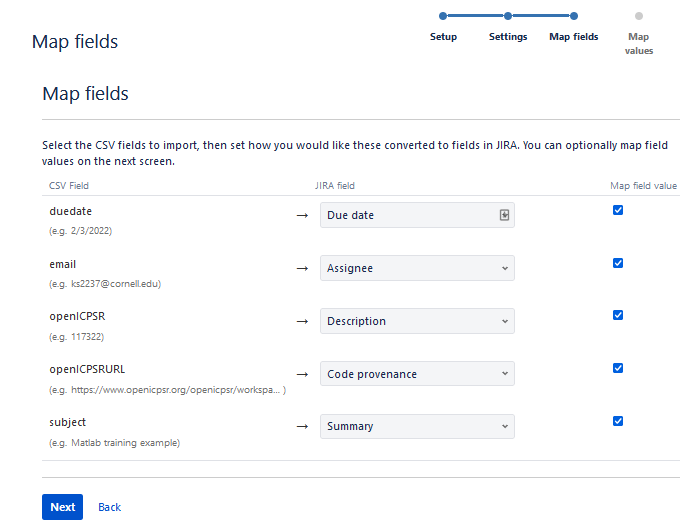
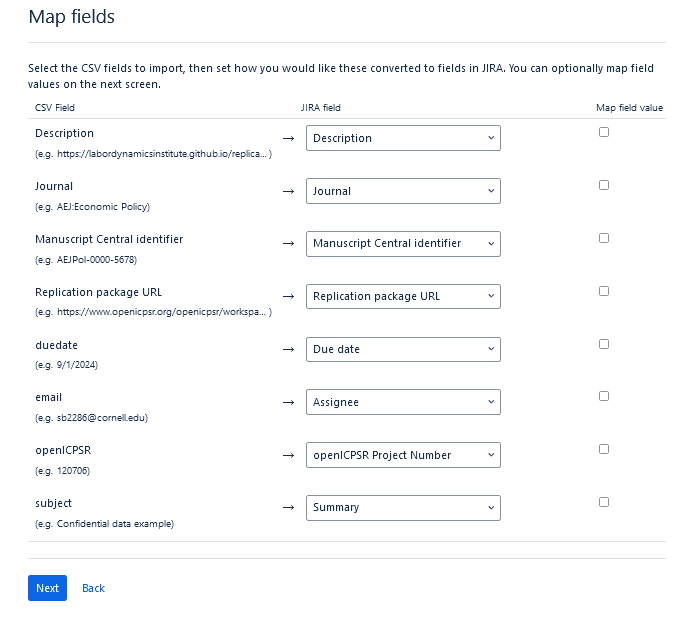
Various updates

diff --git a/_procedures/Hiring_and_Training_Setup.md b/_procedures/Hiring_and_Training_Setup.md
@@ -194,20 +194,30 @@ Thank you,
   - Remember to create one for Lars for the first Stata case, and one for each of the experienced RAs who are conducting the peer review sessions.
   - On the "[Search page](https://aeadataeditors.atlassian.net/issues/?jql=order%20by%20created%20DESC)", go to the  "..." menu, then select "Import issues". **Be sure to import into the "Training 2024" (TRAIN) project!**
   - Choose the corresponding CSV file and check the "Use an existing configuration file" box to use the [mapping file](https://github.com/AEADataEditor/LDI-Research-Aide/blob/main/Training/jira-import-mapping.txt)
-  - Settings: Import to "AEA training" project, file encoding = UTF-8, delimiter = ",", Date format = "MM/dd/yyyy"
+  - Verify the settings.
+
+![Settings]({{ '/Training/Settings.png' | relative_url }})
+
   - Mapping:
 
-![mapping](/Training/Mapping.png)
+![mapping]({{ '/Training/Mapping.png' | relative_url }})
 
-  - Start import, then "check issues"
+  - Use the `Validate` button to check for errors.
 
-5. The bulk importer does not map the openICPSR number field, nor allow for a link to the manuscript. From the "..." at the top right corner, choose "bulk change all x issue(s)", select all issues, and select "Transition Issues"
-6. bulk "transition" them from "Open" to "Assigned". You should then be presented the "Bulk Edit Screen" (if not you can just repeat these steps to get to the "Edit Issues" option of the bulk action screen). Then edit these fields
-    - "openICPSR Project Number"
-    - "Manuscript Central identifier" (i.e. AER-0000-1234)
-    -  'Comment" Add link to proper PDF of manuscript ([PDF_Proofs](https://labordynamicsinstitute.github.io/replicability-training-solutions/)).
+![Validation]({{ '/Training/Validate.png' | relative_url }})
+
+  - If all is fine, `Begin Import`, then `Check issues`.
+
+5. From the "..." at the top right corner, choose "bulk change all x issue(s)", select all issues, and select "Transition Issues"
+6. bulk "transition" them from "Open" to "Assigned". You should then be presented the "Bulk Edit Screen" (if not you can just repeat these steps to get to the "Edit Issues" option of the bulk action screen). If you have to edit any fields, do it here. 
 7. Grant RA's access to download ICPSR deposit (students will need to create their accounts with ICPSR first).
-8. Create "Placeholder" tickets for each RA in Jira. The best way to do this is through the same bulk process as creating the training cases (a placeholder csv file can be found [here](https://github.com/AEADataEditor/LDI-Research-Aide/tree/main/Training)). Be sure to change the "Import to Project" field from "AEA Training" to "AEA Replication - Default". Then convert each issue to a subtask for the Master Placeholder aearep-1407 (unsure if there is a way to bulk convert to subtask).
+  - Go to each case's openICPSR deposit.
+  - Remove previous trainees' access.
+  - Add new trainees' access.
+  - Trick: use Excel to concatenate the email addresses with `, ` (`=concatenate(A1,", ")`), then copy-paste the new column into the `Share` field with download permissions.
+8. Create "Placeholder" tickets for each RA in Jira. The best way to do this is through the same bulk process as creating the training cases (a placeholder csv file can be found [here](https://github.com/AEADataEditor/LDI-Research-Aide/tree/main/Training)), except:
+  - Change the "Import to Project" field from "AEA Training" to "AEA Replication - Default". 
+  - Then individually convert each issue to a subtask for the Master Placeholder `aearep-1407` (unsure if there is a way to bulk convert to subtask).
 
 
 9. After training, grade reports using https://github.com/labordynamicsinstitute/replicability-training-solutions as a reference

diff --git a/_procedures/Exit_process.md b/_procedures/Exit_process.md
@@ -1,0 +1,43 @@
+# Exit Checklist
+
+
+## Graduated Students
+
+- [ ] Remove from LDI-Lab mailing list.
+- [ ] In Jira, transition the “Placeholder” ticket to “Done.”
+- [ ] Remove from Jira (log in as “dataeditor@aeapubs.org” > under Settings, "User Management" > find RA and under Actions, "Show details" > Click on "..." and "Remove User")
+- [ ] Remove from Bitbucket (aeaverification workspace > People > Manage Users > [User Directory](https://bitbucket.org/aeaverification/workspace/settings/user-directory) > find RA, and "Remove").
+- [ ] Remove from calendar invites (Monday and Thursday meetings).
+- [ ] Update Replication Project Resumes sheet.
+- [ ] Request removal of admin access from OpenICPSR (for submitters only).
+- [ ] Lars remove LastPass share of ScholarOne password (for submitters only).
+
+## Mid-Year Departure
+
+- [ ] Lars to send email notifying the RA of termination.
+- [ ] Remove from LDI-Lab mailing list.
+- [ ] In Jira, transition the “Placeholder” ticket to “Done.”
+- [ ] Remove from Jira (log in as “dataeditor@aeapubs.org” > People > Manage Users > Total Users > Click on the RA > “Remove user”).
+- [ ] Remove from Bitbucket (aeaverification workspace > Workspace settings > Users on plan > Then remove access).
+- [ ] Remove from calendar invites (Monday and Thursday meetings).
+- [ ] Update Replication Project Resumes sheet.
+- [ ] Email ilr_student_empl@cornell.edu (cc Lars) to inform HR that the student is being terminated.
+- [ ] Email ciser@cornell.edu to request that their account be disabled. (may no longer be applicable with CCSS Cloud)
+- [ ] Request removal of admin access from OpenICPSR (for submitters only).
+- [ ] Lars remove LastPass share of ScholarOne password (for submitters only).
+
+Email template:
+
+```
+Dear [RA],
+
+I have come to the unfortunate conclusion that your  availability and the needs of the LDI Replication Lab are not well aligned. As of immediately, I am ending your relationship with the LDI Project.
+
+[Ilanith] will be processing the exit procedures.
+
+I thank you for your efforts, and wish you well in your future endeavors.
+
+Sincerely,
+
+Lars
+```

diff --git a/index.md b/index.md
@@ -25,6 +25,11 @@ Instructions for cases where the author(s) have indicated on the DCAF that they 
 
 Detailed instructions on everything related to the hiring and training of RAs. Additionally, the "Training" folder includes the template csv files and mapping file for bulk importing training cases.
 
+
+### [Exit Process](/LDI-Research-Aide/procedures/Exit_process/)
+
+Checklist for exiting RAs from the Lab.
+
 ### [Data Editor Email Inbox](/LDI-Research-Aide/emails/Data-Editor-Email-Protocol/)
 
 Certain emails that the `dataeditor@aeapubs.org` account recieves require action, such as the Lineup emails.
